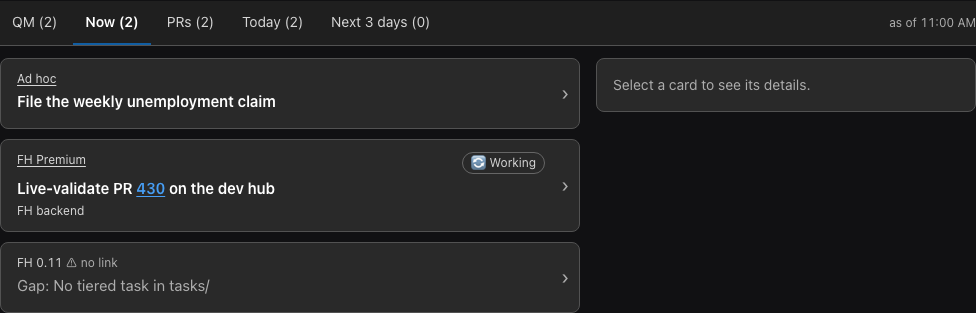
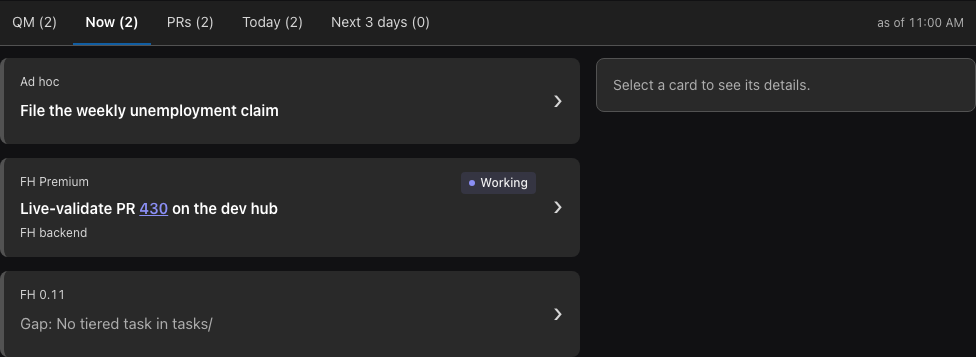
fix(priorities-tables): Split the chevron rule into FR:ui-kit/card.chev and refresh every screen

diff --git a/web/e2e/prs.spec.ts b/web/e2e/prs.spec.ts
@@ -236,7 +236,7 @@ test('one card: repo, # link, title, author, one action flag, spec lines, Pin, A
   const flag = await c.locator('.ui-flag').evaluate((e) => { const cs = getComputedStyle(e); return { bg: cs.backgroundColor, border: cs.borderTopWidth, cursor: cs.cursor, tab: (e as HTMLElement).tabIndex, role: e.getAttribute('role'), tag: e.tagName, icon: !!e.querySelector('svg') }; });
   expect(flag).toEqual({ bg: 'rgba(0, 0, 0, 0)', border: '0px', cursor: 'default', tab: -1, role: null, tag: 'SPAN', icon: true });
   await expect(c.locator('.pr-spec')).toHaveText('8 spec lines');
-  // The chevron: its 44 px column spans the card height at the right edge; the tools stay clear of it. @req FR:ui-kit/card
+  // The chevron: its 44 px column spans the card height at the right edge; the tools stay clear of it. @req FR:ui-kit/card.chev
   const [box, chev, tools] = [(await c.boundingBox())!, (await c.locator('.ui-card-chev').boundingBox())!, (await c.locator('.ui-card-tools').boundingBox())!];
   expect(Math.abs((chev.y + chev.height / 2) - (box.y + box.height / 2))).toBeLessThanOrEqual(1);
   expect([chev.width >= 44, box.x + box.width - (chev.x + chev.width) <= 1, tools.x + tools.width <= chev.x + 1]).toEqual([true, true, true]);

diff --git a/web/src/ui/ui.css b/web/src/ui/ui.css
@@ -16,7 +16,7 @@
 .ui-card:hover .ui-card-title { text-decoration: underline; }
 .ui-card-title { grid-area: title; font-size: 15px; font-weight: 600; line-height: 21px; overflow-wrap: anywhere; }
 .ui-card-sub { grid-area: sub; display: flex; flex-wrap: wrap; gap: 4px 12px; font-size: 12px; color: var(--ui-ink2, var(--ink2)); }
-/* The chevron: 28 px, in a 44 px column at the right edge, centred on the full card height (the card is its containing block). */
+/* The chevron: 28 px, in a 44 px column at the right edge, centred on the full card height (the card is its containing block). @req FR:ui-kit/card.chev */
 .ui-card-chev { position: absolute; inset: 0 0 0 auto; width: 44px; display: flex; align-items: center; justify-content: center; padding-bottom: 4px; font-size: 28px; line-height: 1; color: var(--ui-ink2, var(--ink2)); pointer-events: none; }
 /* With `label`: title and sub line outside the button, so their links stay links above the stretched target. */
 .ui-card-body { grid-area: open; display: grid; grid-template-columns: minmax(0, 1fr); grid-template-areas: "title" "sub"; gap: 4px 8px; align-items: center; min-width: 0; }

diff --git a/web/e2e/priorities-tables.spec.ts b/web/e2e/priorities-tables.spec.ts
@@ -197,7 +197,7 @@ test.describe('Priorities report', () => {
     if (info.project.name === 'mobile') for (const t of await page.getByRole('tab').all()) expect((await t.boundingBox())!.height).toBeGreaterThanOrEqual(44);
   });
 
-  // @req FR:priorities-tables/web.card.open @req FR:priorities-tables/web.tabs.head @req FR:ui-kit/card @req FR:ui-kit/tabs
+  // @req FR:priorities-tables/web.card.open @req FR:priorities-tables/web.tabs.head @req FR:ui-kit/card.chev @req FR:ui-kit/tabs
   test('the chevron is large and centred on the card height; the stamp has space after it', async ({ page }) => {
     await open(page, view(), '#/now?pri=now');
     for (const c of await cards(page, 'now').all()) {

diff --git a/.xe/features/priorities-tables/spec.md b/.xe/features/priorities-tables/spec.md
@@ -151,7 +151,7 @@ Owner needs the report on the Now page so that he sees it without a new screen.
   - **FR:web.status.chip** (P1): Status MUST be a `StatusChip` (`FR:ui-kit/chip`: a dot and one word on a tint); a row with no agent MUST show no chip.
   - **FR:web.card.agent** (P1): The card MUST show the agent name as plain text, with no added emoji and no link.
   - **FR:web.card.project** (P1): The card MUST show the project as plain text.
-  - **FR:web.card.open** (P1): The whole card MUST open its detail (one target, ending in a `›` centred on the card height); links on the card MUST stay links.
+  - **FR:web.card.open** (P1): The whole card MUST open its detail (one target, ending in `›`, `FR:ui-kit/card.chev`); links on the card MUST stay links.
 - **FR:web.detail** (P1): The detail pane MUST show the project (linked), status chip, full next action (linked refs), agent (linked) with `+ N more on this goal`, source `path:line` and the stamp. Wide (900 px or more) it MUST sit beside the list; narrow it MUST replace the list, with Back.
   - **FR:web.table.gap** (P1): A gap row MUST show its action in muted text with the word `Gap:` first.
   - **FR:web.table.empty** (P1): An empty tab MUST show one card `Nothing here`.
@@ -159,7 +159,7 @@ Owner needs the report on the Now page so that he sees it without a new screen.
   - **FR:web.links.project** (P1): In the detail pane, the project MUST link to its project page (`#/list?project=<file>`).
   - **FR:web.links.agent** (P1): In the detail pane, the agent MUST link to its session, else to its agent file in the Agents view.
   - **FR:web.links.refs** (P1): Each PR, issue and URL in the action MUST be a link; no bare `#12` or `PR 12` MUST show.
-  - **FR:web.links.gap** (P1): In the detail pane, a project or agent with no link target MUST show the gap marker `⚠ no link`, never plain text alone.
+  - **FR:web.links.gap** (P1): In the detail pane, a project or agent with no link target MUST show the gap marker `⚠ no link`.
   - **FR:web.links.none** (P1): `--` MUST be plain text.
 - **FR:web.live** (P1): Now MUST read `GET /priorities` on load, on each live change and every 60 s while visible.
   - **FR:web.live.absent** (P2): Now MUST hide the report when `GET /priorities` answers 404.

diff --git a/.xe/features/ui-kit/spec.md b/.xe/features/ui-kit/spec.md
@@ -23,7 +23,8 @@ The owner needs every list view to look and act the same so that he reads a PR, 
 
 ### FR:card: Selectable card
 
-- **FR:card** (P1): `SelectCard` is one list item: an optional top line (links, flags, chips), a title, an optional sub line, an optional tools column, and a chevron (`›`). The chevron is 28 px, in a 44 px column at the right edge, centred on the full card height. One button covers the card; a tap or click anywhere that is not a link or a tool selects it, and Enter or Space on it does the same. Links and tools sit above it. `selected` sets `aria-current` and a focus-colored outline. `sr` is text read after the title by assistive tech only. With `label`, the title and sub line sit outside the button, so links in them stay links, and the button (the chevron, stretched over the card) is named `label`. A view sets the tone with the CSS variables `--ui-edge`, `--ui-soft`, `--ui-strong`, `--ui-ink`, `--ui-ink2`, and the class `strong`. Cards in a `ui-cards` list have 14 px between them and 14 px padding inside
+- **FR:card** (P1): `SelectCard` is one list item: an optional top line (links, flags, chips), a title, an optional sub line, an optional tools column, and a chevron (`›`). One button covers the card; a tap or click anywhere that is not a link or a tool selects it, and Enter or Space on it does the same. Links and tools sit above it. `selected` sets `aria-current` and a focus-colored outline. `sr` is text read after the title by assistive tech only. With `label`, the title and sub line sit outside the button, so links in them stay links, and the button (the chevron, stretched over the card) is named `label`. A view sets the tone with the CSS variables `--ui-edge`, `--ui-soft`, `--ui-strong`, `--ui-ink`, `--ui-ink2`, and the class `strong`. Cards in a `ui-cards` list have 14 px between them and 14 px padding inside
+  - **FR:card.chev** (P1): The 28 px chevron MUST sit centred in a 44 px column at the right edge, over the card height.
 
 ### FR:flag: Flag
 
